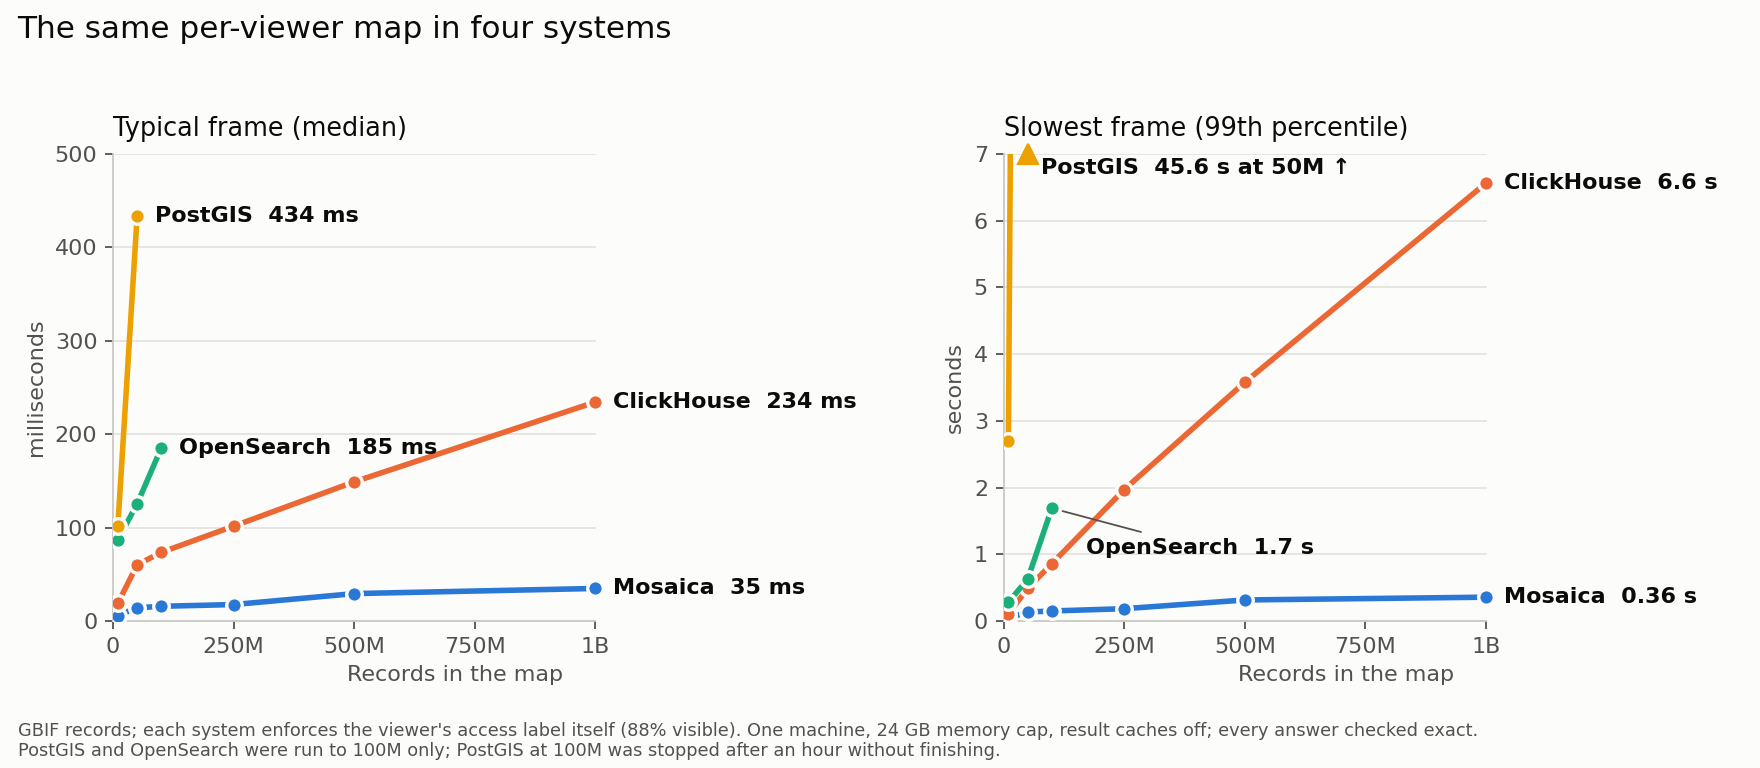
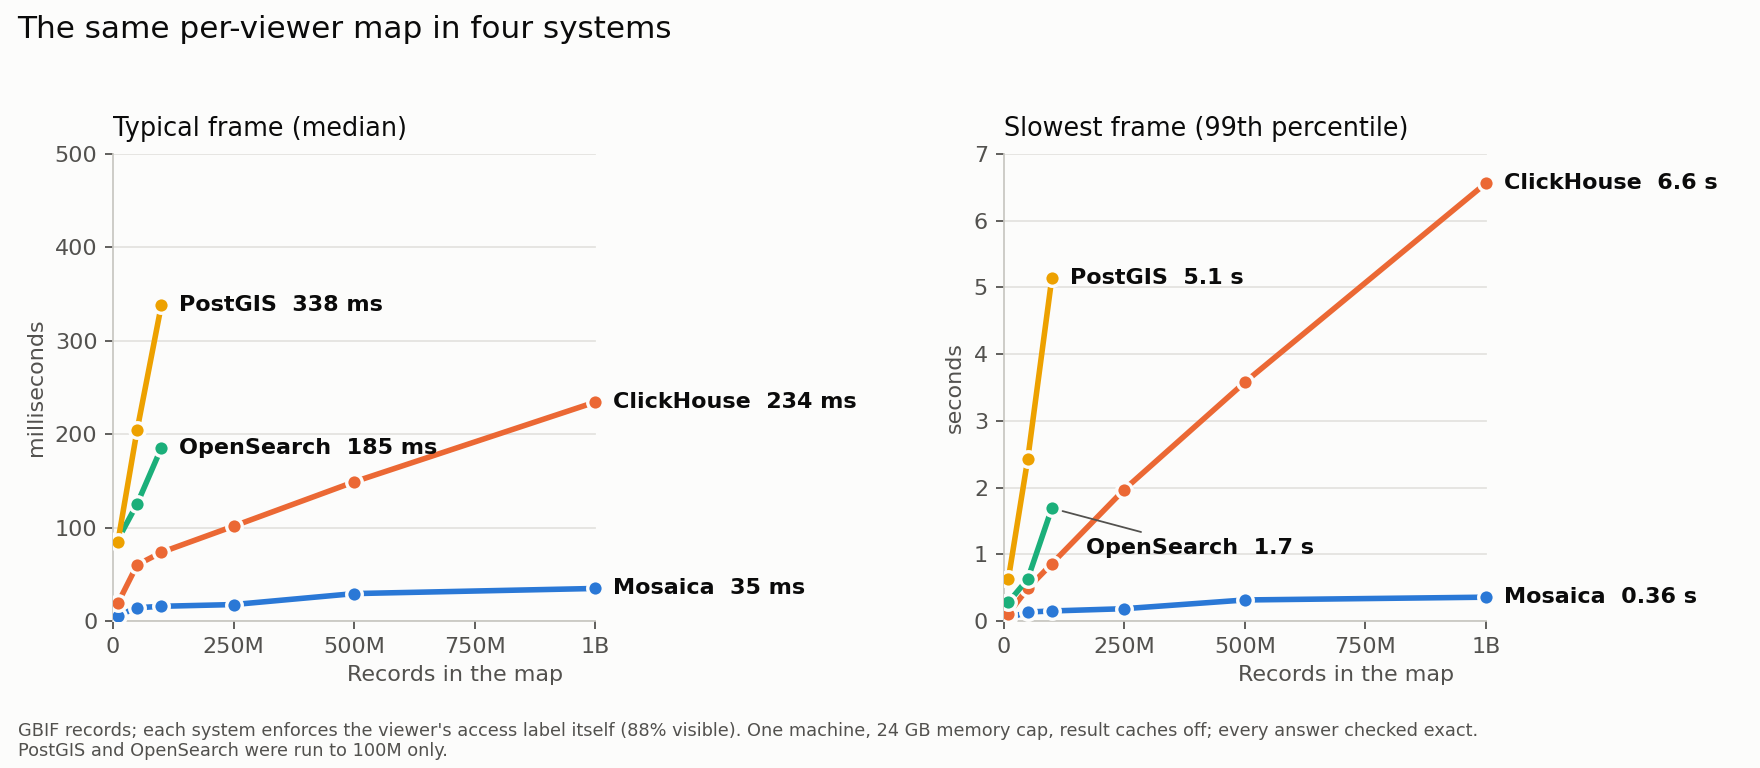
Comparison: PostGIS figures from the tuned arm, up to 100M

Changed region(s): [[0.5625, 0.1875, 0.75, 0.75], [0.0625, 0.25, 0.2188, 0.7188], [0.25, 0.9688, 0.5625, 1.0]]

diff --git a/docs/system/comparison.md b/docs/system/comparison.md
@@ -14,9 +14,7 @@ Each record carries one access label, its country, and the viewer holds every la
 
 The main workload is a scripted camera: it starts on the whole world, zooms into each of the two densest regions to zoom 14, pans at several zooms and zooms back out. The script runs five times with every result cache off. Filter changes and two aggregation tables, counts by kingdom and a histogram of years, are timed at screens along the way.
 
-Every run used one desktop, an AMD Ryzen 9 5900X with 12 logical CPUs under WSL2, with each system in a Docker container capped at 24 GB of memory. Each system was set up as its documentation recommends for spatial data: ClickHouse and OpenSearch store the records in Morton order, and PostGIS indexes quantised integer positions.
-
-[PostGIS: figures and setup to be updated after the tuning pass.]
+Every run used one desktop, an AMD Ryzen 9 5900X with 12 logical CPUs under WSL2, with each system in a Docker container capped at 24 GB of memory. Each system was set up as its documentation recommends for spatial data, and ClickHouse, PostGIS and OpenSearch each store the records in Morton order, as Mosaica does, so the records of one tile are stored together.
 
 ## Results
 
@@ -48,12 +46,10 @@ PostGIS and OpenSearch fall behind well before a billion records:
 
 | At 100M records | Mosaica | ClickHouse | OpenSearch | PostGIS |
 |---|---|---|---|---|
-| Typical frame | 16 ms | 73 ms | 185 ms | 434 ms at 50M |
-| Slowest frame | 0.15 s | 0.86 s | 1.69 s | 45.6 s at 50M |
-| Build | 122 s | 29 s | 702 s | 100 s at 50M |
-| Size on disk | 3.8 GiB | 1.2 GiB | 5.4 GiB | 5.2 GiB at 50M |
-
-PostGIS did not finish the camera script at 100 million records within an hour.
+| Typical frame | 16 ms | 73 ms | 185 ms | 338 ms |
+| Slowest frame | 0.15 s | 0.86 s | 1.69 s | 5.14 s |
+| Build | 122 s | 29 s | 702 s | 260 s |
+| Size on disk | 3.8 GiB | 1.2 GiB | 5.4 GiB | 10.9 GiB |
 
 ## Why the curves differ
 
